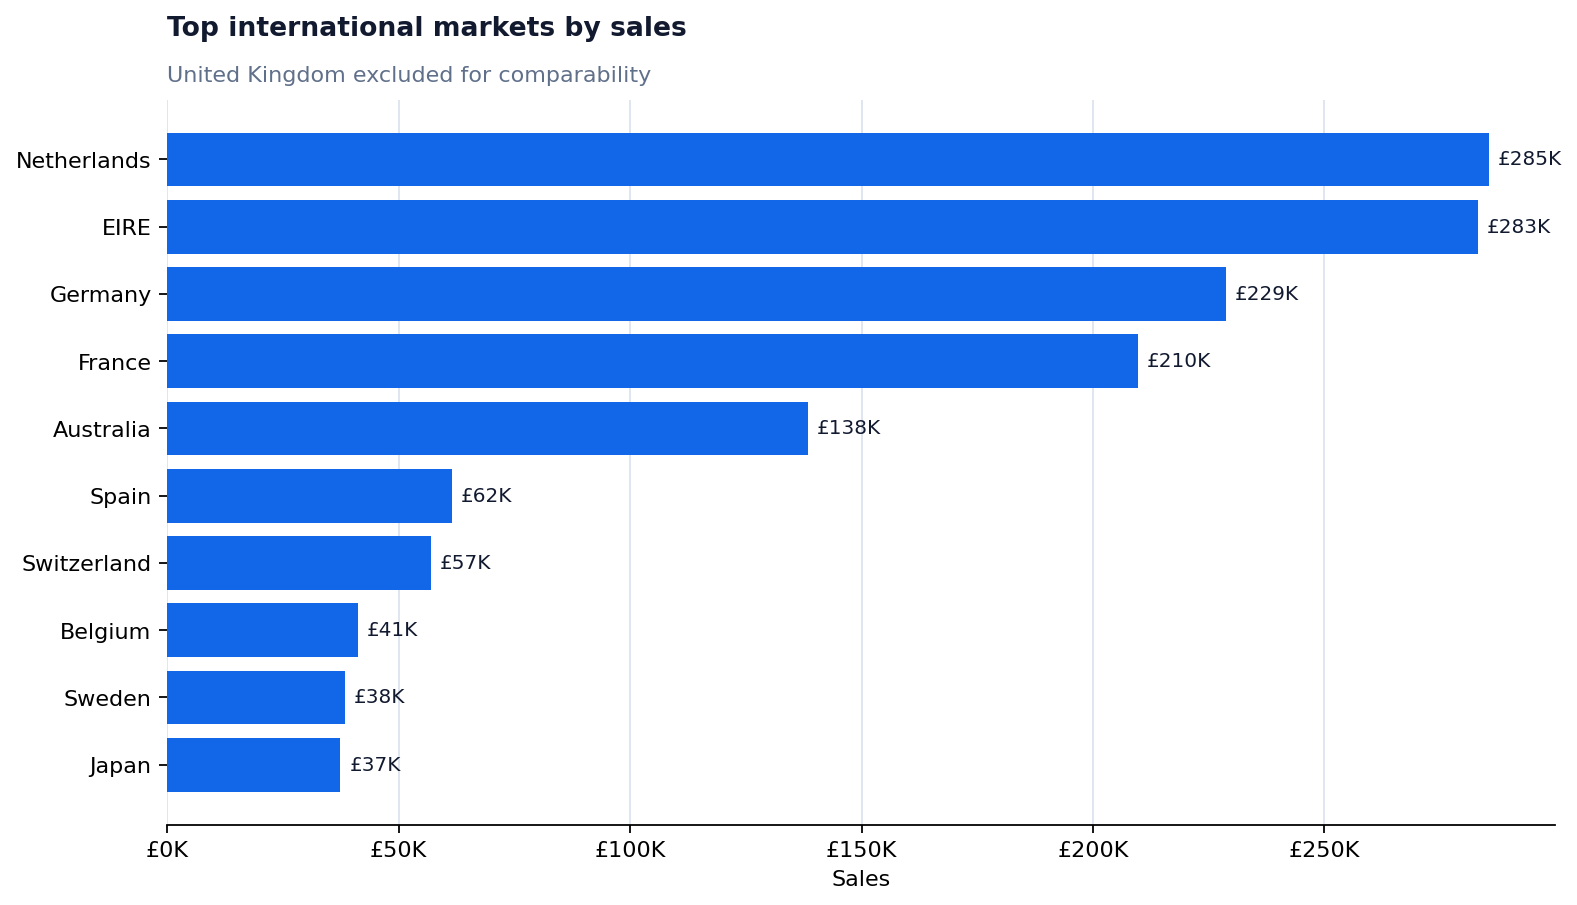
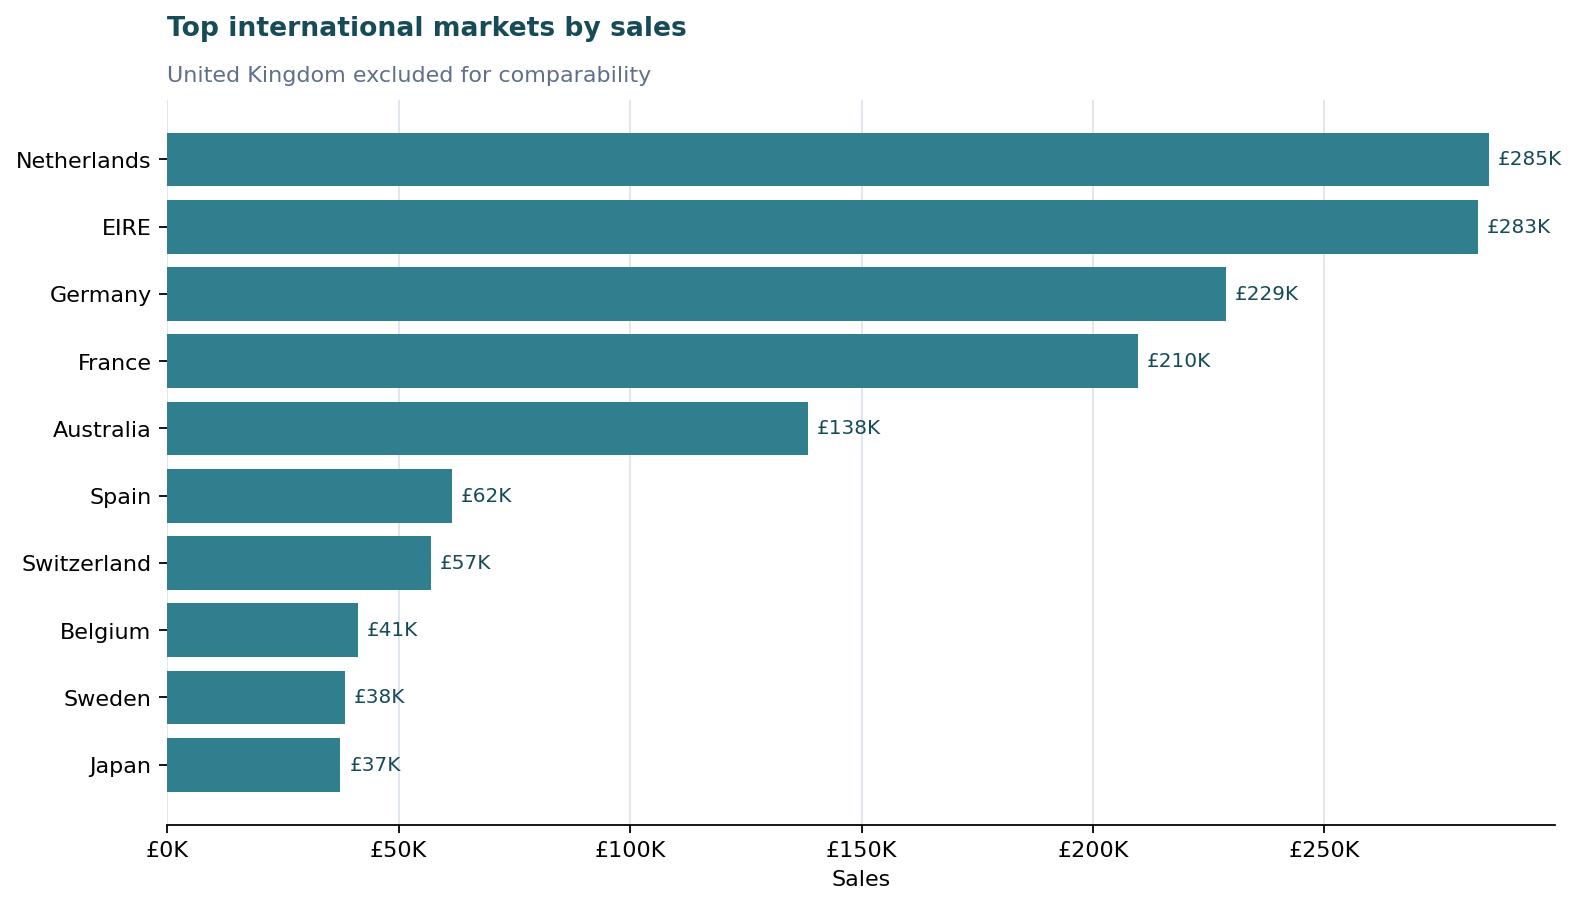
Finalize retail executive dashboard

Changed region(s): [[0.0932, 0.1238, 0.9943, 0.8972], [0.0932, 0.0, 0.435, 0.0619]]

diff --git a/scripts/validate_pbip_project.py b/scripts/validate_pbip_project.py
@@ -35,8 +35,11 @@ def main() -> None:
     visuals = list((PAGE / "visuals").glob("*/visual.json"))
     assert len(visuals) >= 20, "Executive page is missing expected visuals"
 
+    visual_definitions = {}
+
     for path in visuals:
         visual = json.loads(path.read_text(encoding="utf-8"))
+        visual_definitions[visual["name"]] = visual
         position = visual["position"]
         assert position["x"] >= 0 and position["y"] >= 0, path
         assert position["x"] + position["width"] <= page_width, path
@@ -67,8 +70,24 @@ def main() -> None:
         "CompletedSales",
         "NOT ISBLANK('Retail Sales'[CustomerID])",
         "REMOVEFILTERS('Retail Sales'[Country])",
+        "measure 'Total Sales Card'",
+        "measure 'Total Orders Card'",
+        "measure 'Total Customers Card'",
+        "measure 'Total Products Card'",
+        "measure 'Average Order Value Card'",
+        "measure 'Sales (M)'",
     ]:
         assert required_term in model, f"Missing semantic-model rule: {required_term}"
+
+    assert "#2F7F8F" in public_text, "Petroleum-blue report palette is missing"
+    assert "#1267E8" not in public_text, "Legacy bright-blue report colour remains"
+    for emoji in ["💰", "🛒", "👥", "📦", "📈"]:
+        assert emoji not in public_text, f"Decorative emoji remains in the report: {emoji}"
+
+    assert visual_definitions["chartProducts"]["position"]["height"] == 190
+    assert visual_definitions["chartCustomers"]["position"]["height"] == 190
+    assert visual_definitions["slicerCountry"]["position"]["height"] == 58
+    assert visual_definitions["slicerMonth"]["position"]["height"] == 58
 
     print(f"PBIP validation passed: {len(visuals)} visuals within a {page_width}×{page_height} page")
 

diff --git a/scripts/generate_documentation_assets.py b/scripts/generate_documentation_assets.py
@@ -13,8 +13,8 @@ from validate_retail_metrics import build_analytical_population
 
 ROOT = Path(__file__).resolve().parents[1]
 OUTPUT = ROOT / "images"
-BLUE = "#1267E8"
-NAVY = "#121A30"
+BLUE = "#2F7F8F"
+NAVY = "#164B57"
 CORAL = "#F08FA0"
 GRID = "#DDE4EE"
 

diff --git a/docs/DASHBOARD_SPECIFICATION.md b/docs/DASHBOARD_SPECIFICATION.md
@@ -2,16 +2,16 @@
 
 ## Design direction
 
-The report uses a restrained blue visual system inspired by the supplied concept image. The design should feel operational and executive rather than decorative.
+The report uses a restrained light-petroleum visual system inspired by the supplied concept image. The design should feel operational and executive rather than decorative.
 
 Core colours:
 
-- Primary blue: `#1267E8`
-- Dark navy: `#121A30`
-- Secondary blue: `#2D7FF0`
+- Primary petroleum: `#2F7F8F`
+- Dark petroleum: `#164B57`
+- Secondary petroleum: `#78B8C2`
 - Positive green: `#169B62`
 - Warning amber: `#E59F24`
-- Light background: `#F7F9FC`
+- Light background: `#F4F9FA`
 - Card background: `#FFFFFF`
 - Border: `#DDE4EE`
 
@@ -47,7 +47,7 @@ Do not show “100% of total” beneath every KPI. It communicates no comparison
    - KPI or callout for UK sales share;
    - horizontal bar chart titled `Top international markets by sales`;
    - UK excluded from this chart and stated in the subtitle;
-   - no scroll bar in the default top-ten view.
+   - seven international markets shown without a scroll bar.
 
 3. Customer and product highlights
    - top five customers by sales;
@@ -60,7 +60,7 @@ Do not show “100% of total” beneath every KPI. It communicates no comparison
 - Month
 - Product classification
 
-Filters belong in a narrow top or left panel. They must not consume the full page width beneath the analysis.
+Filters belong in a compact strip beneath the analysis. They must remain visible without obscuring the charts.
 
 ## Page 2 — Customer & Product Analysis
 

diff --git a/README.md b/README.md
@@ -18,7 +18,7 @@ This project analyses the UCI Online Retail dataset with Python, SQL and Power B
 | Power BI executive overview | Complete |
 | Version-controlled PBIP project | Complete |
 | Customer, product and data-quality detail pages | Specified for the next report iteration |
-| Final Power BI Desktop refresh | Ready for desktop validation |
+| Final Power BI Desktop refresh | Complete |
 
 ## Executive result
 